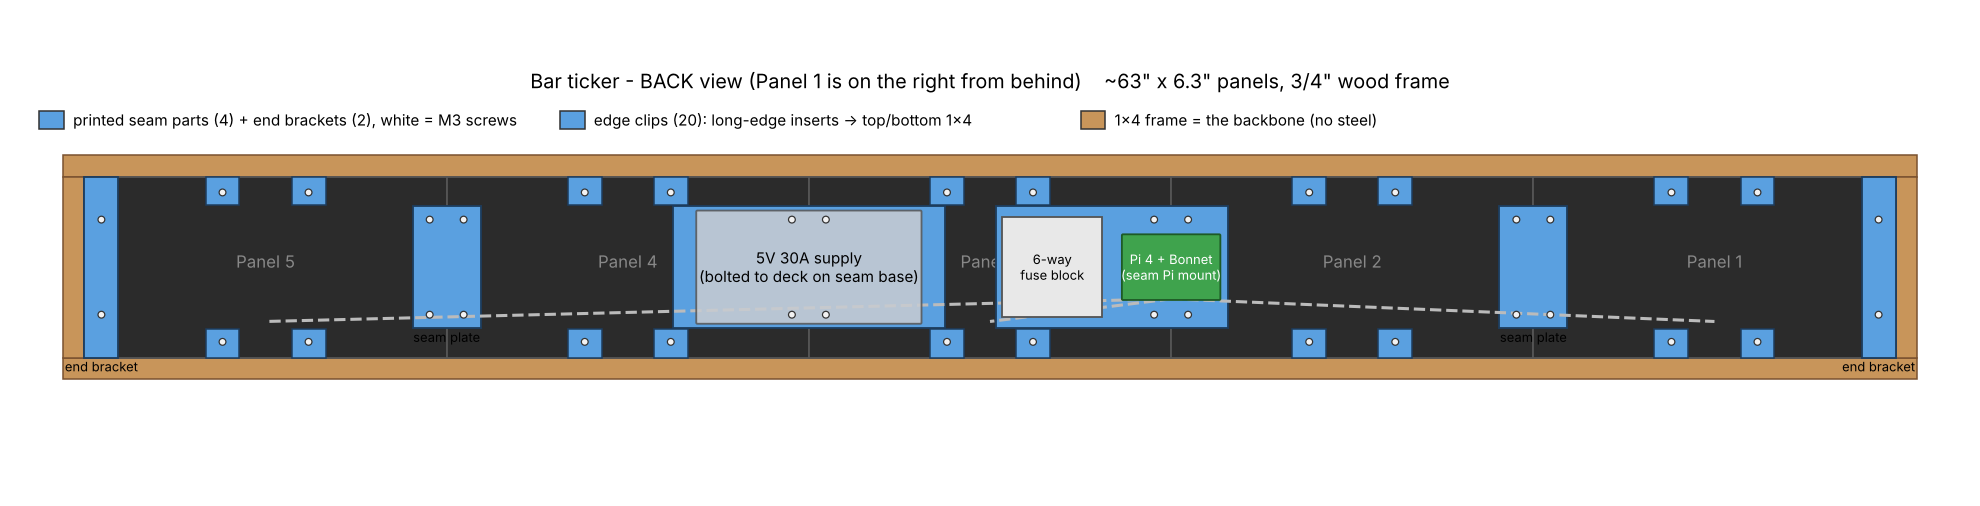
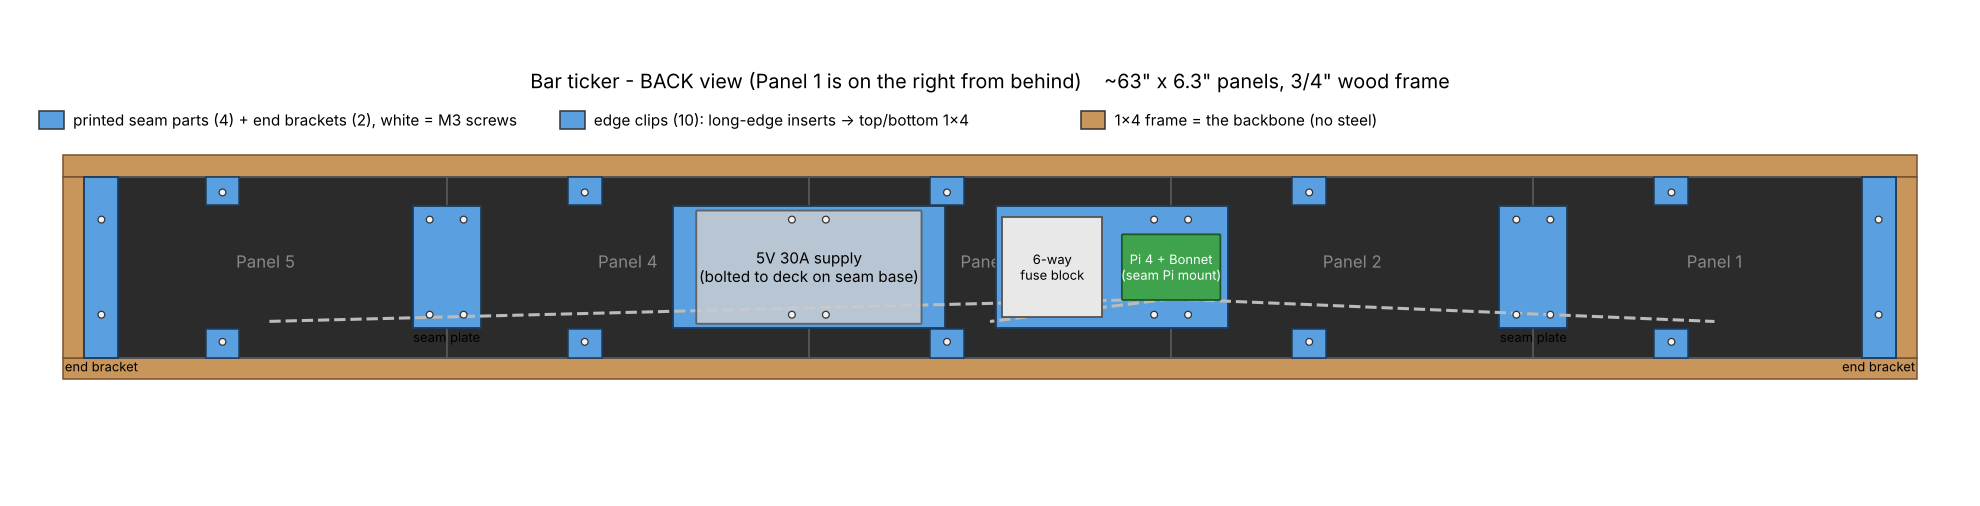
10 edge clips (1 per panel per edge); re-rendered
Claude-Session: https://claude.ai/code/session_01HYeaEYygyfgRPSDkpePvV6

diff --git a/hardware/seam_parts.py b/hardware/seam_parts.py
@@ -7,10 +7,10 @@
 #   ticker-seam-pi-mount.stl   joiner with the Pi 4 mount + 6-way fuse block mount  print 1
 #   ticker-seam-psu-base-A/B.stl  joiner with 4 posts for the power-supply deck, 2 halves (butt cut, K1C bed)  print 1 each
 #   ticker-psu-deck-A/B.stl       deck the 5V supply bolts to (2 x M4), 2 halves, each with 1 supply bolt  print 1 each
-#   ticker-edge-clip.stl       long edges: insert -> 90-degree flange screwed to the top/bottom 1x4  print 20
+#   ticker-edge-clip.stl       long edges: insert -> 90-degree flange screwed to the top/bottom 1x4  print 10
 #   ticker-end-bracket.stl     outer ends: flange for the wood side board  print 1
 #   ticker-end-bracket-switch.stl  same, with a notch in the flange for the power switch  print 1
-#   ticker-end-washer.stl      slider washer under each M3 screw (windows are oversized)  print 20
+#   ticker-end-washer.stl      slider washer under each M3 screw (windows are oversized)  print 30
 #
 # Screws: M3 x 10 mm (+ printed washer) into every insert. Windows allow +/-6 mm along and +/-4 mm up/down,
 # so small measuring errors don't matter. x = along the ticker (0 = seam or end edge), y = up/down
@@ -137,7 +137,7 @@ save(a_, "ticker-psu-deck-A.stl"); save(b_, "ticker-psu-deck-B.stl")
 # from them with small edge clips, and the side boards screw to the end brackets.
 
 # ---- edge clip: screws into a long-edge insert (the rows ~14 mm in from each long edge) and has a 90-degree
-# flange flush with the panel's long edge for screwing into the top or bottom 1x4. 2 per panel per edge = 20.
+# flange flush with the panel's long edge for screwing into the top or bottom 1x4. 1 per panel per edge = 10.
 ROW_IN = 14.0                      # long-edge insert row, measured in from the panel edge (photo estimate)
 PANEL_H = 160.0
 EDGE = PANEL_H / 2                 # panel edge, from the center line

diff --git a/hardware/back_layout.py b/hardware/back_layout.py
@@ -41,9 +41,9 @@ for k in range(0, N + 1):
         if 0 < x < W:
             for sy in (-1, 1):
                 ax.add_patch(Circle((x, PH / 2 + sy * 42), 3, facecolor="#f2f2f2", edgecolor="#333", lw=0.8, zorder=10))
-# edge clips (2 per panel per edge) screw into the long-edge inserts and into the top/bottom 1x4
+# edge clips (1 per panel per edge) screw into the long-edge inserts and into the top/bottom 1x4
 for i in range(N):
-    for cx in (122, 198):
+    for cx in (122,):
         for (y0, yi) in ((0, 14), (PH - 25, PH - 14)):
             ax.add_patch(Rectangle((i * PW + cx - 15, y0), 30, 25, facecolor="#5aa0e0", edgecolor="#1d3d5e", lw=1, zorder=7))
             ax.add_patch(Circle((i * PW + cx, yi), 3, facecolor="#f2f2f2", edgecolor="#333", lw=0.8, zorder=10))
@@ -59,7 +59,7 @@ for tx in (PW * 4 + 160, PW * 2 + 160, PW * 0 + 160):
 # labels
 ax.set_xlim(-60, W + 60); ax.set_ylim(PH + 45, -70)
 ax.set_title("Bar ticker - BACK view (Panel 1 is on the right from behind)    ~63\" x 6.3\" panels, 3/4\" wood frame", fontsize=13)
-legend = [("#5aa0e0", "printed seam parts (4) + end brackets (2), white = M3 screws"), ("#5aa0e0", "edge clips (20): long-edge inserts -> top/bottom 1x4"),
+legend = [("#5aa0e0", "printed seam parts (4) + end brackets (2), white = M3 screws"), ("#5aa0e0", "edge clips (10): long-edge inserts -> top/bottom 1x4"),
           ("#c8955a", "1x4 frame = the backbone (no steel)")]
 for i, (c, t) in enumerate(legend):
     ax.add_patch(Rectangle((i * 460 - 40, -58), 22, 16, facecolor=c, edgecolor="#333"))

diff --git a/hardware/render_assembly.py b/hardware/render_assembly.py
@@ -30,8 +30,8 @@ add("print", part("ticker-seam-pi-mount.stl", PW * 3))
 add("print", part("ticker-seam-plate.stl", PW * 4))
 add("print", part("ticker-end-bracket-switch.stl", 0))
 add("print", part("ticker-end-bracket.stl", W, flip=True))
-for i in range(N):                                                    # edge clips: 2 per panel per edge
-    for cx in (122, 198):
+for i in range(N):                                                    # edge clips: 1 per panel per edge
+    for cx in (122,):
         add("print", part("ticker-edge-clip.stl", i * PW + cx))
         add("print", part("ticker-edge-clip.stl", i * PW + cx, flip=True))
 add("psu", tbox(PW * 2 - 98.5, 80 - 49, 22, PW * 2 + 98.5, 80 + 49, 72))  # 5V 30A supply (197 x 98 x ~50) bolted to the deck
@@ -65,7 +65,7 @@ def scene(wood_opacity=1.0, size=(2400, 1100)):
 # 1) whole ticker from behind
 p = scene()
 p.camera_position = [(W / 2, -1300, 1500), (W / 2, 80, 0), (0, 0, 1)]
-p.camera.zoom(1.0)
+p.camera.zoom(1.7)
 p.add_text("Bar ticker - back, fully assembled", font_size=14, color="black")
 p.screenshot("ticker-render-full.png")
 
